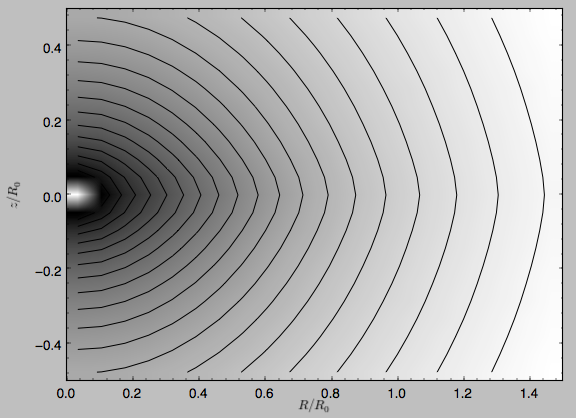
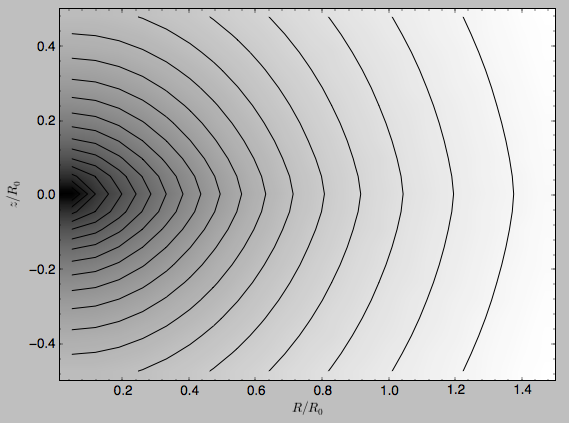
replace MWPotential w/ MWPotential2014 in the potentials part of the tutorial, #180

diff --git a/doc/source/potential.rst b/doc/source/potential.rst
@@ -37,19 +37,19 @@ such instances. Similarly, we can evaluate a Potential instance
 Most member functions of Potential instances have corresponding
 functions in the galpy.potential module that allow them to be
 evaluated for lists of multiple Potential
-instances. ``galpy.potential.MWPotential`` is such a list of three
+instances. ``galpy.potential.MWPotential2014`` is such a list of three
 Potential instances
 
->>> from galpy.potential import MWPotential
->>> print MWPotential
-[<galpy.potential_src.MiyamotoNagaiPotential.MiyamotoNagaiPotential instance at 0x1078d5c20>, <galpy.potential_src.TwoPowerSphericalPotential.NFWPotential instance at 0x1078d5c68>, <galpy.potential_src.TwoPowerSphericalPotential.HernquistPotential instance at 0x1078d5cb0>]
+>>> from galpy.potential import MWPotential2014
+>>> print MWPotential2014
+[<galpy.potential_src.PowerSphericalPotentialwCutoff.PowerSphericalPotentialwCutoff instance at 0x1089b23b0>, <galpy.potential_src.MiyamotoNagaiPotential.MiyamotoNagaiPotential instance at 0x1089b2320>, <galpy.potential_src.TwoPowerSphericalPotential.NFWPotential instance at 0x1089b2248>]
 
 and we can evaluate the potential by using the ``evaluatePotentials``
 function
 
 >>> from galpy.potential import evaluatePotentials
->>> evaluatePotentials(1.,0.,MWPotential)
--4.5525780402192924
+>>> evaluatePotentials(1.,0.,MWPotential2014)
+-1.3733506513947895
 
 We can plot the potential of axisymmetric potentials (or of
 non-axisymmetric potentials at phi=0) using the ``plot`` member
@@ -64,7 +64,8 @@ which produces the following plot
 Similarly, we can plot combinations of Potentials using
 ``plotPotentials``, e.g., 
 
->>> plotPotentials(MWPotential)
+>>> from galpy.potential import plotPotentials
+>>> plotPotentials(MWPotential2014,rmin=0.01)
 
 .. image:: images/MWPotential-potential.png
 
@@ -107,11 +108,11 @@ Again, there are functions in ``galpy.potential`` that allow for the
 evaluation of the forces for lists of Potential instances, such that
 
 >>> from galpy.potential import evaluateRforces
->>> evaluateRforces(1.,0.,MWPotential)
+>>> evaluateRforces(1.,0.,MWPotential2014)
 -1.0
 >>> from galpy.potential import evaluatezforces
->>> evaluatezforces(1.,0.125,MWPotential)*bovy_conversion.force_in_2piGmsolpc2(220.,8.)
->>> -82.898379883714099 #2 \pi G Msol / pc^2
+>>> evaluatezforces(1.,0.125,MWPotential2014)*bovy_conversion.force_in_2piGmsolpc2(220.,8.)
+>>> -69.680720137571114 #2 \pi G Msol / pc^2
 
 We can evaluate the flattening of the potential as
 :math:`\sqrt{|z\,F_R/R\,F_Z|}` for a Potential instance as well as for
@@ -120,8 +121,8 @@ a list of such instances
 >>> mp.flattening(1.,0.125)
 0.4549542914935209
 >>> from galpy.potential import flattening
->>> flattening(MWPotential,1.,0.125)
-0.5593251065691105
+>>> flattening(MWPotential2014,1.,0.125)
+0.61231675305658628
 
 Densities
 ---------
@@ -146,22 +147,22 @@ which are the same to machine precision
 >>> mp.dens(1.,0.,forcepoisson=True)-mp.dens(1.,0.)
 -2.2204460492503131e-16
 
-Similarly, all of the potentials in ``galpy.potential.MWPotential``
+Similarly, all of the potentials in ``galpy.potential.MWPotential2014``
 have explicitly-implemented densities, so we can do
 
 >>> from galpy.potential import evaluateDensities
->>> evaluateDensities(1.,0.,MWPotential)
-0.71812049194200644
+>>> evaluateDensities(1.,0.,MWPotential2014)
+0.57508603122264867
 
 In physical coordinates, this becomes
 
->>> evaluateDensities(1.,0.,MWPotential)*bovy_conversion.dens_in_msolpc3(220.,8.)
-0.1262386383150029 #Msol / pc^3
+>>> evaluateDensities(1.,0.,MWPotential2014)*bovy_conversion.dens_in_msolpc3(220.,8.)
+0.1010945632524705 #Msol / pc^3
 
 We can also plot densities
 
 >>> from galpy.potential import plotDensities
->>> plotDensities(MWPotential,rmin=0.1,zmax=0.25,zmin=-0.25,nrs=101,nzs=101)
+>>> plotDensities(MWPotential2014,rmin=0.1,zmax=0.25,zmin=-0.25,nrs=101,nzs=101)
 
 which gives
 
@@ -207,11 +208,11 @@ of all, we can calculate the circular velocity and its derivative
 or, for lists of Potential instances
 
 >>> from galpy.potential import vcirc
->>> vcirc(MWPotential,1.)
+>>> vcirc(MWPotential2014,1.)
 1.0
 >>> from galpy.potential import dvcircdR
->>> dvcircdR(MWPotential,1.)
-0.012084123754590059
+>>> dvcircdR(MWPotential2014,1.)
+-0.10091361254334696
 
 We can also calculate the various frequencies for close-to-circular
 orbits. For example, the rotational frequency
@@ -219,24 +220,24 @@ orbits. For example, the rotational frequency
 >>> mp.omegac(0.8)
 1.2784598203204887
 >>> from galpy.potential import omegac
->>> omegac(MWPotential,0.8)
-1.2389547535552212
+>>> omegac(MWPotential2014,0.8)
+1.2733514576122869
 
 and the epicycle frequency
 
 >>> mp.epifreq(0.8)
 1.7774973530267848
 >>> from galpy.potential import epifreq
->>> epifreq(MWPotential,0.8)
-1.8144833328444094
+>>> epifreq(MWPotential2014,0.8)
+1.7452189766287691
 
 as well as the vertical frequency
 
 >>> mp.verticalfreq(1.0)
 3.7859388972001828
 >>> from galpy.potential import verticalfreq
->>> verticalfreq(MWPotential,1.)
-3.0000000000000004
+>>> verticalfreq(MWPotential2014,1.)
+2.7255405754769875
 
 
 For close-to-circular orbits, we can also compute the radii of the
